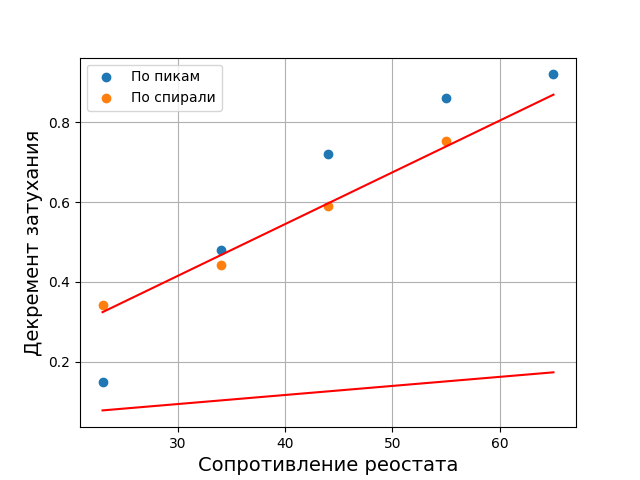
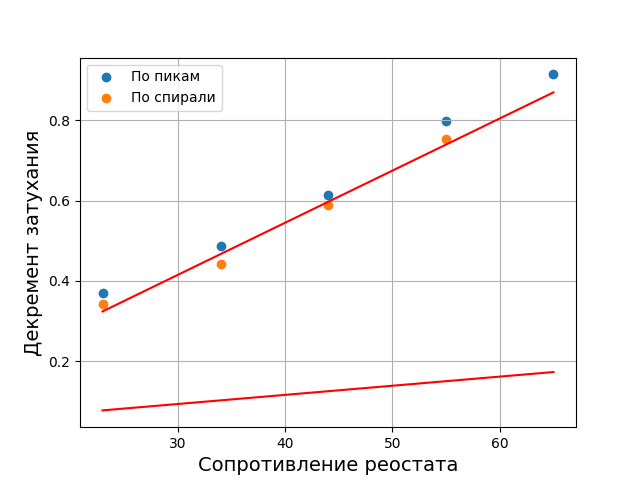
Re-measure to fix badly qfactor_prop_r.png

diff --git a/qfactor_peaks.py b/qfactor_peaks.py
@@ -37,7 +37,7 @@ plt.ylabel('Логарифм пикового напряжения', fontsize=14
 plt.savefig('qfactor_peaks.png')
 plt.close()
 
-slopes = np.array((0.15, 0.48, 0.72, 0.86, 0.92,))
+slopes = np.array((0.370, 0.486, 0.614, 0.797, 0.914,))
 
 # Moving to the spiral method
 voltages_tuple = (
